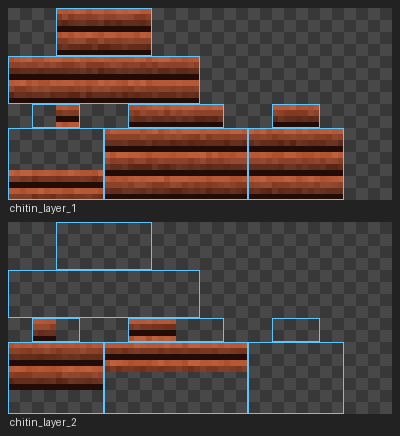
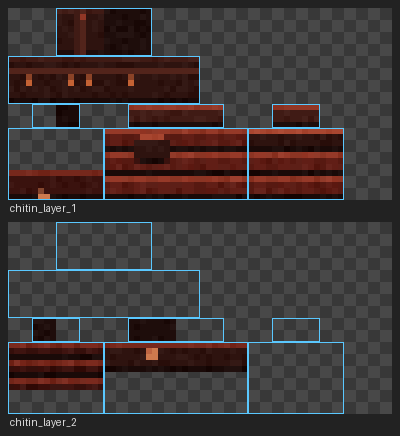
art: tiling-quiet soils, pellet anthill, ant-styled armor, comb UV fix, faster leg cycle
Per Logan's review: tighter soil palettes + subtler clumps so 16x16 repeats stop reading as a grid; anthill soil rebuilt as excavated pellets with pore openings; armor layers redesigned from the soldier-ant palette (head-plate helmet with crest + amber eyes, segment-banded chest with pronotum shield, pauldrons, claw-tip boots, clasped belt); combs get a custom cube model rotating UP/DOWN UVs 90deg so floor rows flow like wall rows; worker/soldier leg cycle roughly doubled (1.4/1.3 vs 0.6662) to match ground speed.

Changed region(s): [[0.0, 0.0, 0.87, 0.4771], [0.0, 0.7156, 0.63, 0.8945]]

diff --git a/assets-src/blocks.py b/assets-src/blocks.py
@@ -132,58 +132,77 @@ def lerp_color(a, b, t):
 # Palette / fabric soils (tier soils top -> bottom get visibly darker)
 # ---------------------------------------------------------------------------
 
-PACKED_SOIL_PAL = [(94, 70, 45, 255), (117, 88, 58, 255), (139, 107, 74, 255),
-                   (160, 127, 89, 255), (182, 149, 106, 255)]
+# Tiling note (Logan's 2026-08-13 review): adjacent copies of a 16x16 are IDENTICAL,
+# so any high-contrast one-off feature reads as a grid at world scale, and cube_all
+# rotates the same texture differently on top/bottom faces. The soils therefore keep
+# their value range TIGHT (mid three tones dominate, extremes are subtle) and their
+# features small and isotropic -- nothing directional, nothing eye-catching.
+
+PACKED_SOIL_PAL = [(103, 78, 51, 255), (119, 90, 60, 255), (139, 107, 74, 255),
+                   (153, 119, 83, 255), (166, 131, 93, 255)]
 
 
 def packed_soil():
     img = value_noise_fill("packed_soil", PACKED_SOIL_PAL)
-    # a couple of embedded grit pebbles, vanilla-dirt style
-    stamp_clumps(img, "packed_soil", 3, (104, 79, 51, 255),
-                 highlight=(171, 138, 97, 255), size_range=(2, 2))
+    # a single grit clump, kept close to the base tones so repeats stay quiet
+    stamp_clumps(img, "packed_soil", 1, (110, 83, 55, 255),
+                 highlight=(158, 124, 87, 255), size_range=(2, 2))
     return img
 
 
 def amber_earth():
     img = value_noise_fill("amber_earth",
-                           [(110, 55, 24, 255), (136, 71, 33, 255), (163, 89, 43, 255),
-                            (189, 111, 58, 255), (212, 134, 76, 255)])
-    # occasional resin fleck bedded in the earth
-    stamp_clumps(img, "amber_earth", 2, (224, 152, 56, 255),
-                 highlight=(250, 205, 120, 255), size_range=(1, 2))
+                           [(124, 63, 28, 255), (139, 73, 34, 255), (163, 89, 43, 255),
+                            (178, 101, 51, 255), (193, 114, 61, 255)])
+    # a single subdued resin fleck per tile
+    stamp_clumps(img, "amber_earth", 1, (212, 138, 62, 255),
+                 highlight=(228, 164, 90, 255), size_range=(1, 1))
     return img
 
 
 def deep_loam():
     img = value_noise_fill("deep_loam",
-                           [(44, 22, 14, 255), (62, 32, 20, 255), (82, 44, 28, 255),
-                            (103, 58, 37, 255), (124, 74, 48, 255)])
-    stamp_clumps(img, "deep_loam", 3, (36, 18, 12, 255),
-                 highlight=(110, 64, 40, 255), size_range=(2, 3))
+                           [(54, 27, 17, 255), (64, 33, 21, 255), (82, 44, 28, 255),
+                            (93, 51, 33, 255), (104, 59, 38, 255)])
+    stamp_clumps(img, "deep_loam", 2, (46, 23, 15, 255),
+                 highlight=(96, 54, 34, 255), size_range=(2, 2))
     return img
 
 
 def hardened_soil():
     img = value_noise_fill("hardened_soil",
-                           [(74, 66, 58, 255), (92, 83, 73, 255), (110, 100, 89, 255),
-                            (128, 118, 105, 255), (146, 136, 122, 255)])
-    # embedded stones: darker blobs with a bright catch-light, coarse-dirt style
-    stamp_clumps(img, "hardened_soil", 4, (66, 59, 52, 255),
-                 highlight=(152, 142, 128, 255), size_range=(2, 3))
+                           [(82, 74, 65, 255), (92, 83, 73, 255), (110, 100, 89, 255),
+                            (119, 109, 97, 255), (129, 119, 106, 255)])
+    # embedded stones, low contrast so the repeat stays quiet
+    stamp_clumps(img, "hardened_soil", 3, (73, 66, 58, 255),
+                 highlight=(133, 123, 110, 255), size_range=(2, 2))
     return img
 
 
 def anthill_soil():
+    """Excavated-pellet look: an anthill is thousands of carried soil granules.
+    Dense 2x2 pellets (lit top-left, shaded bottom-right) packed over a sandy
+    base, with a few dark pore openings the ants come and go by."""
     img = value_noise_fill("anthill_soil",
-                           [(128, 99, 60, 255), (150, 119, 76, 255), (172, 139, 92, 255),
-                            (192, 159, 110, 255), (211, 180, 130, 255)])
-    # tiny tunnel mouths -- dark pinpricks the ants come and go by
-    r = rng("anthill_soil:holes")
+                           [(150, 117, 74, 255), (161, 128, 84, 255),
+                            (172, 139, 92, 255), (183, 150, 103, 255)],
+                           weights=[2, 5, 5, 2], jitter=0.15)
     px = img.load()
-    for _ in range(4):
+    r = rng("anthill_soil:pellets")
+    for _ in range(26):
         x, y = r.randrange(SIZE), r.randrange(SIZE)
-        px[x, y] = (96, 72, 42, 255)
-        px[wrap(x + 1), y] = (112, 86, 52, 255)
+        mid = r.choice([(166, 133, 88, 255), (176, 143, 96, 255), (186, 152, 104, 255)])
+        lite = (min(mid[0] + 26, 255), min(mid[1] + 24, 255), min(mid[2] + 20, 255), 255)
+        dark = (max(mid[0] - 30, 0), max(mid[1] - 28, 0), max(mid[2] - 24, 0), 255)
+        px[x, y] = lite
+        px[wrap(x + 1), y] = mid
+        px[x, wrap(y + 1)] = mid
+        px[wrap(x + 1), wrap(y + 1)] = dark
+    for _ in range(3):
+        x, y = r.randrange(SIZE), r.randrange(SIZE)
+        px[x, y] = (82, 60, 36, 255)
+        px[wrap(x + 1), y] = (102, 76, 46, 255)
+        px[x, wrap(y + 1)] = (102, 76, 46, 255)
     return img
 
 
@@ -706,21 +725,78 @@ def chitin_boots_item():
     return from_mask(CHITIN_BOOTS_MASK)
 
 
-def chitin_panel(img, name, x0, y0, w, h, band=4):
-    """Fills a UV rect with banded chitin plate: each band lit along its top row,
-    dark seam along its bottom row, faint per-pixel tone jitter in between."""
-    r = rng(f"{name}:{x0},{y0}")
+# --- Soldier-ant palette, mirrored from models.py S_* constants: the armor is
+# --- literally plates of soldier chitin, so it reuses the exact tones.
+SOLD_DARKEST = (26, 10, 8, 255)
+SOLD_DARK = (58, 18, 14, 255)
+SOLD_BASE = (92, 28, 20, 255)
+SOLD_MID = (118, 40, 28, 255)
+SOLD_LIGHT = (145, 55, 38, 255)
+SOLD_PALE = (168, 70, 48, 255)
+AHEAD_DARK = (30, 13, 11, 255)     # soldier head-plate tones (helmet + pauldrons)
+AHEAD_BASE = (46, 19, 15, 255)
+AHEAD_MID = (64, 27, 21, 255)
+AHEAD_LIGHT = (82, 36, 27, 255)
+AJAW_TIP = (206, 122, 78, 255)     # pale mandible tip -- claw/clasp accents
+AEYE = (196, 98, 52, 255)          # antenna-tip amber -- eye lenses
+
+
+def _jitter(px, name, x0, y0, w, h, amount=6):
+    """Faint per-pixel tone jitter over an already-painted rect."""
+    r = rng(f"{name}:jit:{x0},{y0}")
+    for yy in range(y0, y0 + h):
+        for xx in range(x0, x0 + w):
+            c = px[xx, yy]
+            if c[3] == 0:
+                continue
+            j = r.choice((-amount, 0, 0, 0, amount))
+            px[xx, yy] = (max(0, min(255, c[0] + j)), max(0, min(255, c[1] + j)),
+                          max(0, min(255, c[2] + j)), 255)
+
+
+def segment_plates(img, name, x0, y0, w, h, band=4, rim=None, base=None, seam=None,
+                   face_w=None):
+    """Overlapping chitin segment bands, gaster-style: each band has a lit top
+    rim, a shaded body that bulges (lighter) toward each face's centre columns,
+    and a near-black seam row. face_w splits the strip into faces so the bulge
+    curves per face rather than across the whole UV strip."""
+    rim = rim or SOLD_LIGHT
+    base = base or SOLD_BASE
+    seam = seam or SOLD_DARKEST
+    px = img.load()
+    fw = face_w or w
+    for yy in range(h):
+        phase = yy % band
+        for xx in range(w):
+            fx = xx % fw
+            centre = abs((fx + 0.5) - fw / 2.0) / (fw / 2.0)   # 0 centre .. 1 edge
+            bulge = int((0.5 - centre) * 22)                   # +11 centre, -11 edge
+            if phase == 0:
+                c = rim
+            elif phase == band - 1:
+                c = seam
+            else:
+                c = base
+            if c is not seam:
+                c = (max(0, min(255, c[0] + bulge)), max(0, min(255, c[1] + bulge // 2)),
+                     max(0, min(255, c[2] + bulge // 2)), 255)
+            px[x0 + xx, y0 + yy] = c
+    _jitter(px, name, x0, y0, w, h)
+
+
+def flat_plate(img, name, x0, y0, w, h, base, rim, seam):
+    """A single smooth plate: lit top row, shaded bottom row, jittered body."""
     px = img.load()
     for yy in range(h):
-        t = min(1.0, (yy % band) / max(1, band - 1) * 0.9 + 0.1)
-        base = lerp_color(CHITIN_RIM, CHITIN_DARK, t)
         for xx in range(w):
-            j = r.choice((-8, -4, 0, 0, 0, 4, 8))
-            px[x0 + xx, y0 + yy] = tuple(
-                max(0, min(255, base[i] + j)) for i in range(3)) + (255,)
-    for yy in range(band - 1, h, band):
-        for xx in range(w):
-            px[x0 + xx, y0 + yy] = CHITIN_OUTLINE
+            if yy == 0:
+                c = rim
+            elif yy == h - 1:
+                c = seam
+            else:
+                c = base
+            px[x0 + xx, y0 + yy] = c
+    _jitter(px, name, x0, y0, w, h)
 
 
 # Box-UV rects for the vanilla humanoid armor model, read off HumanoidModel /
@@ -736,33 +812,74 @@ ARMOR_TEX_W, ARMOR_TEX_H = 64, 32
 def chitin_layer_1():
     """Outer layer: helmet (HEAD), chestplate + sleeves (CHEST), boots (FEET).
     HumanoidArmorLayer.usesInnerModel() is true only for LEGS, so everything
-    except the leggings reads this file."""
+    except the leggings reads this file.
+
+    Design pulls straight from the soldier ant model: near-black head plates
+    with a crest ridge and amber eye lenses on the helmet, gaster-style segment
+    bands on the torso with a dark pronotum shield, pauldron plates on the
+    shoulders, mandible-pale claw tips on the boots."""
     img = Image.new("RGBA", (ARMOR_TEX_W, ARMOR_TEX_H), (0, 0, 0, 0))
-    # helmet: head side faces + skull cap
-    chitin_panel(img, "helm_sides", 0, 8, 32, 8)
-    chitin_panel(img, "helm_top", 8, 0, 8, 8)
-    chitin_panel(img, "helm_bottom", 16, 0, 8, 8)
-    # chestplate: full body box
-    chitin_panel(img, "chest_sides", 16, 20, 24, 12)
-    chitin_panel(img, "chest_caps", 20, 16, 16, 4)
-    # sleeves: full arm box
-    chitin_panel(img, "arm_sides", 40, 20, 16, 12)
-    chitin_panel(img, "arm_caps", 44, 16, 8, 4)
-    # boots: only the bottom of the leg box, or they'd read as full greaves
-    chitin_panel(img, "boot_sides", 0, 27, 16, 5, band=3)
-    chitin_panel(img, "boot_sole", 8, 16, 4, 4, band=3)
+    px = img.load()
+
+    # -- helmet: head-plate tones. Side strip is 4 faces of 8: right/front/left/back.
+    flat_plate(img, "helm_sides", 0, 8, 32, 8, AHEAD_BASE, AHEAD_MID, SOLD_DARKEST)
+    # brow ridge -- one lighter row above the eyes, all the way round
+    for xx in range(32):
+        px[xx, 10] = AHEAD_LIGHT
+    # amber eye lenses: two on the front face, one on each side face
+    for (ex, ey) in [(10, 12), (13, 12), (3, 12), (20, 12)]:
+        px[ex, ey] = AEYE
+        px[ex, ey - 1] = lerp_color(AEYE, AHEAD_LIGHT, 0.5)
+    # skull cap with a crest ridge running front-to-back
+    flat_plate(img, "helm_top", 8, 0, 8, 8, AHEAD_BASE, AHEAD_MID, AHEAD_DARK)
+    for yy in range(0, 8):
+        px[11, yy] = AHEAD_MID
+        px[12, yy] = AHEAD_LIGHT
+    px[12, 1] = SOLD_LIGHT
+    flat_plate(img, "helm_bottom", 16, 0, 8, 8, AHEAD_DARK, AHEAD_DARK, AHEAD_DARK)
+
+    # -- chestplate: segment bands (3 bands over 12 rows), bulging per face.
+    # Body side strip is faces of width 4/8/4/8 -- fake it with face_w=4 (the 8-wide
+    # faces just get two gentle bulges, which reads as paired plates).
+    segment_plates(img, "chest_sides", 16, 20, 24, 12, band=4, face_w=4)
+    # pronotum shield: a dark rounded plate on the chest front face (x20..27)
+    flat_plate(img, "chest_shield", 21, 21, 6, 5, AHEAD_BASE, SOLD_PALE, SOLD_DARKEST)
+    px[21, 21] = SOLD_BASE   # knock the corners off so it reads rounded
+    px[26, 21] = SOLD_BASE
+    px[21, 25] = SOLD_DARK
+    px[26, 25] = SOLD_DARK
+    # shoulder caps
+    flat_plate(img, "chest_caps", 20, 16, 16, 4, AHEAD_MID, SOLD_LIGHT, AHEAD_DARK)
+
+    # -- sleeves: pauldron plate over the top, segments below.
+    flat_plate(img, "arm_pauldron", 40, 20, 16, 4, AHEAD_BASE, SOLD_PALE, SOLD_DARKEST)
+    segment_plates(img, "arm_sides", 40, 24, 16, 8, band=4, face_w=4)
+    flat_plate(img, "arm_caps", 44, 16, 8, 4, AHEAD_MID, SOLD_LIGHT, AHEAD_DARK)
+
+    # -- boots: dark chitin with pale claw tips at the toes (front face x4..7).
+    flat_plate(img, "boot_sides", 0, 27, 16, 5, SOLD_DARK, SOLD_MID, SOLD_DARKEST)
+    for (bx, by) in [(5, 31), (6, 31)]:
+        px[bx, by] = AJAW_TIP
+    px[5, 30] = lerp_color(AJAW_TIP, SOLD_DARK, 0.5)
+    flat_plate(img, "boot_sole", 8, 16, 4, 4, SOLD_DARKEST, SOLD_DARKEST, SOLD_DARKEST)
     return img
 
 
 def chitin_layer_2():
-    """Inner layer: leggings only (LEGS is the sole slot using the inner model).
-    Belt across the body box, greaves down the leg box, stopping above the ankle
+    """Inner layer: leggings only. Belt with a mandible-pale clasp across the
+    body box, tight segment greaves down the leg box, stopping above the ankle
     so the boots' own band is not doubled."""
     img = Image.new("RGBA", (ARMOR_TEX_W, ARMOR_TEX_H), (0, 0, 0, 0))
-    chitin_panel(img, "belt_sides", 16, 20, 24, 5, band=3)
-    chitin_panel(img, "belt_top", 20, 16, 8, 4, band=3)
-    chitin_panel(img, "greave_sides", 0, 20, 16, 8)
-    chitin_panel(img, "greave_top", 4, 16, 4, 4)
+    px = img.load()
+    flat_plate(img, "belt_sides", 16, 20, 24, 5, AHEAD_BASE, SOLD_MID, SOLD_DARKEST)
+    # clasp on the front face
+    for (cx_, cy_) in [(23, 21), (24, 21), (23, 22), (24, 22)]:
+        px[cx_, cy_] = AJAW_TIP
+    px[23, 21] = lerp_color(AJAW_TIP, SOLD_PALE, 0.4)
+    flat_plate(img, "belt_top", 20, 16, 8, 4, AHEAD_DARK, AHEAD_DARK, AHEAD_DARK)
+    segment_plates(img, "greave_sides", 0, 20, 16, 8, band=3, face_w=4,
+                   rim=SOLD_MID, base=SOLD_DARK, seam=SOLD_DARKEST)
+    flat_plate(img, "greave_top", 4, 16, 4, 4, AHEAD_DARK, AHEAD_DARK, AHEAD_DARK)
     return img
 
 

diff --git a/src/main/java/com/nogal/formicary/datagen/ModBlockStateProvider.java b/src/main/java/com/nogal/formicary/datagen/ModBlockStateProvider.java
@@ -3,8 +3,11 @@ package com.nogal.formicary.datagen;
 import com.nogal.formicary.Formicary;
 import com.nogal.formicary.block.ModBlocks;
 
+import net.minecraft.core.Direction;
 import net.minecraft.data.PackOutput;
+import net.minecraft.world.level.block.Block;
 import net.neoforged.neoforge.client.model.generators.BlockStateProvider;
+import net.neoforged.neoforge.client.model.generators.ModelBuilder;
 import net.neoforged.neoforge.common.data.ExistingFileHelper;
 
 /**
@@ -30,8 +33,12 @@ public class ModBlockStateProvider extends BlockStateProvider {
         simpleBlock(ModBlocks.HARDENED_SOIL.get());
         simpleBlock(ModBlocks.RESIN_WEEP.get());
         simpleBlock(ModBlocks.RESIN_BLOCK.get());
-        simpleBlock(ModBlocks.BROOD_COMB.get());
-        simpleBlock(ModBlocks.ROYAL_COMB.get());
+        // Combs get a hand-built cube whose top/bottom faces rotate the UV 90
+        // degrees: cube_all orients caps differently from sides, so the comb's
+        // offset rows ran a different way on floors than on walls (Logan's
+        // 2026-08-13 review).
+        combBlock(ModBlocks.BROOD_COMB.get(), "brood_comb");
+        combBlock(ModBlocks.ROYAL_COMB.get(), "royal_comb");
         simpleBlock(ModBlocks.EGG_CLUSTER.get());
         simpleBlock(ModBlocks.DAYLIGHT_MEMBRANE.get());
         simpleBlock(ModBlocks.ANTHILL_SOIL.get());
@@ -52,5 +59,27 @@ public class ModBlockStateProvider extends BlockStateProvider {
         simpleBlock(
                 ModBlocks.FUNGAL_CARPET.get(),
                 models().carpet("fungal_carpet", blockTexture(ModBlocks.FUNGAL_CARPET.get())));
+    }
+
+    /**
+     * Full cube whose UP/DOWN faces rotate their UVs 90 degrees so the comb's offset
+     * cell rows flow the same way on floors/ceilings as on walls. cube_all cannot do
+     * this -- caps and sides get different UV orientations by construction.
+     */
+    private void combBlock(Block block, String name) {
+        var model = models().getBuilder(name)
+                .texture("all", modLoc("block/" + name))
+                .texture("particle", modLoc("block/" + name))
+                .element()
+                .from(0, 0, 0)
+                .to(16, 16, 16)
+                .allFaces((dir, face) -> {
+                    face.texture("#all").cullface(dir);
+                    if (dir == Direction.UP || dir == Direction.DOWN) {
+                        face.rotation(ModelBuilder.FaceRotation.CLOCKWISE_90);
+                    }
+                })
+                .end();
+        simpleBlock(block, model);
     }
 }

diff --git a/src/main/java/com/nogal/formicary/client/model/WorkerAntModel.java b/src/main/java/com/nogal/formicary/client/model/WorkerAntModel.java
@@ -160,10 +160,13 @@ public class WorkerAntModel<T extends Entity> extends EntityModel<T> {
         this.antennaLeft.zRot = REST_ANTENNA_Z + sway;
 
         // The gaster counter-swings a little as the ant walks.
-        this.gaster.yRot = Mth.cos(limbSwing * 0.3331F) * 0.10F * limbSwingAmount;
+        this.gaster.yRot = Mth.cos(limbSwing * 0.7F) * 0.10F * limbSwingAmount;
 
         for (int i = 0; i < this.legs.length; i++) {
-            float cycle = limbSwing * 0.6662F + LEG_PHASE[i];
+            // 1.4 rather than the quadruped-standard 0.6662: ants scuttle -- many
+            // quick steps -- and at the old rate the legs visibly lagged the ground
+            // speed (Logan's 2026-08-13 review).
+            float cycle = limbSwing * 1.4F + LEG_PHASE[i];
             // cos drives the fore/aft stride, sin the lift a quarter-cycle later,
             // so each foot traces a circle rather than sawing back and forth.
             this.legs[i].xRot = Mth.cos(cycle) * limbSwingAmount * 0.55F;

diff --git a/src/main/java/com/nogal/formicary/client/model/SoldierAntModel.java b/src/main/java/com/nogal/formicary/client/model/SoldierAntModel.java
@@ -165,10 +165,13 @@ public class SoldierAntModel<T extends Entity> extends EntityModel<T> {
         this.mandibleLeft.yRot = mandibleFlex;
 
         // The gaster counter-swings a little as the ant walks.
-        this.gaster.yRot = Mth.cos(limbSwing * 0.3331F) * 0.10F * limbSwingAmount;
+        this.gaster.yRot = Mth.cos(limbSwing * 0.65F) * 0.10F * limbSwingAmount;
 
         for (int i = 0; i < this.legs.length; i++) {
-            float cycle = limbSwing * 0.6662F + LEG_PHASE[i];
+            // 1.3 rather than the quadruped-standard 0.6662: ants scuttle (see the
+            // worker model); the soldier steps a touch slower than the worker to
+            // read heavier.
+            float cycle = limbSwing * 1.3F + LEG_PHASE[i];
             this.legs[i].xRot = Mth.cos(cycle) * limbSwingAmount * 0.55F;
             this.legs[i].yRot = LEG_REST_Y[i];
             this.legs[i].zRot = LEG_REST_Z[i] + LEG_SIDE[i] * Mth.sin(cycle) * limbSwingAmount * 0.18F;
